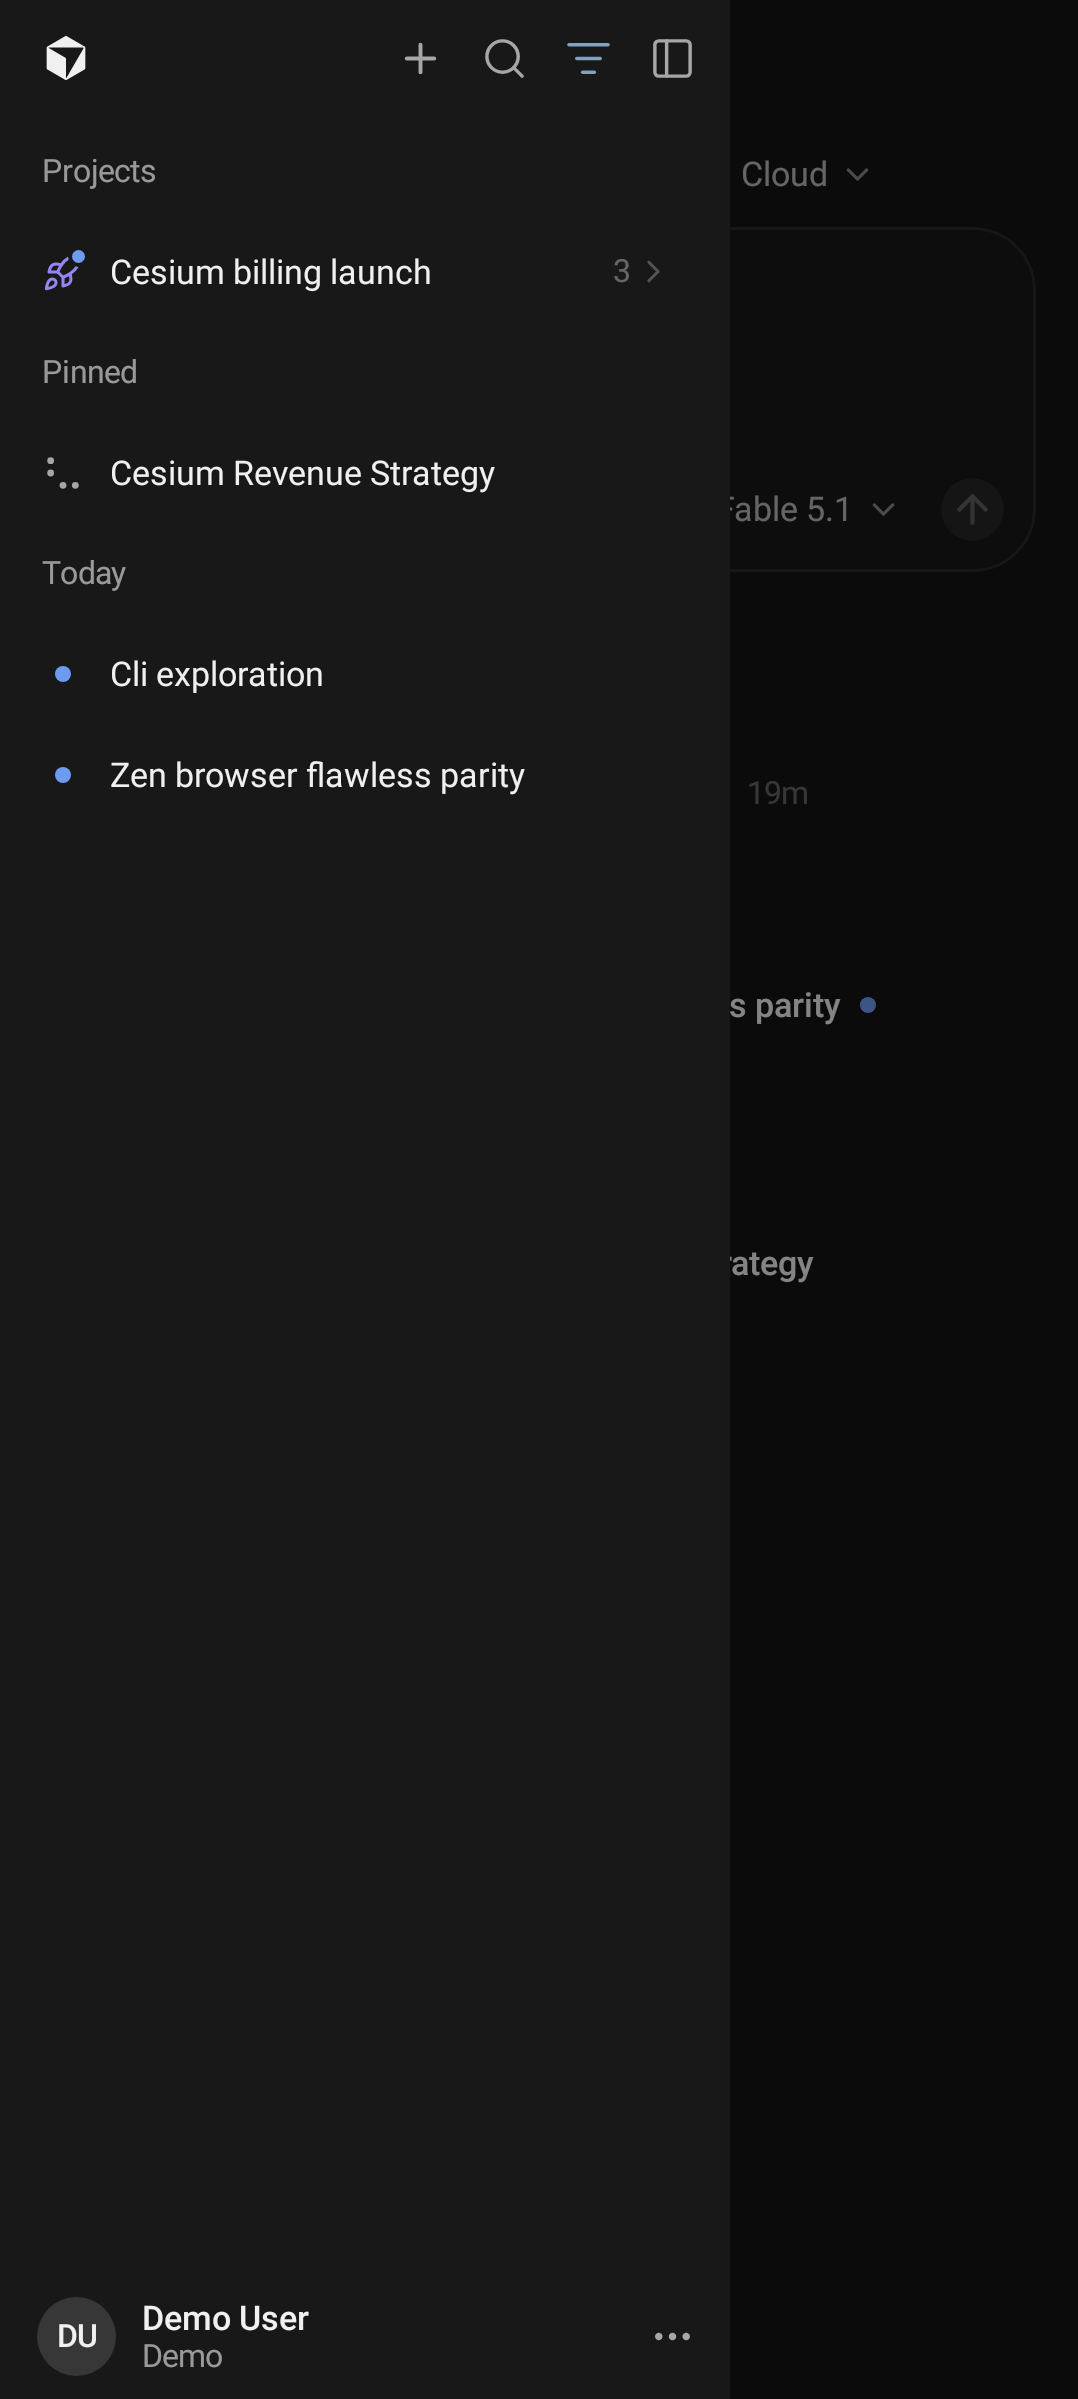
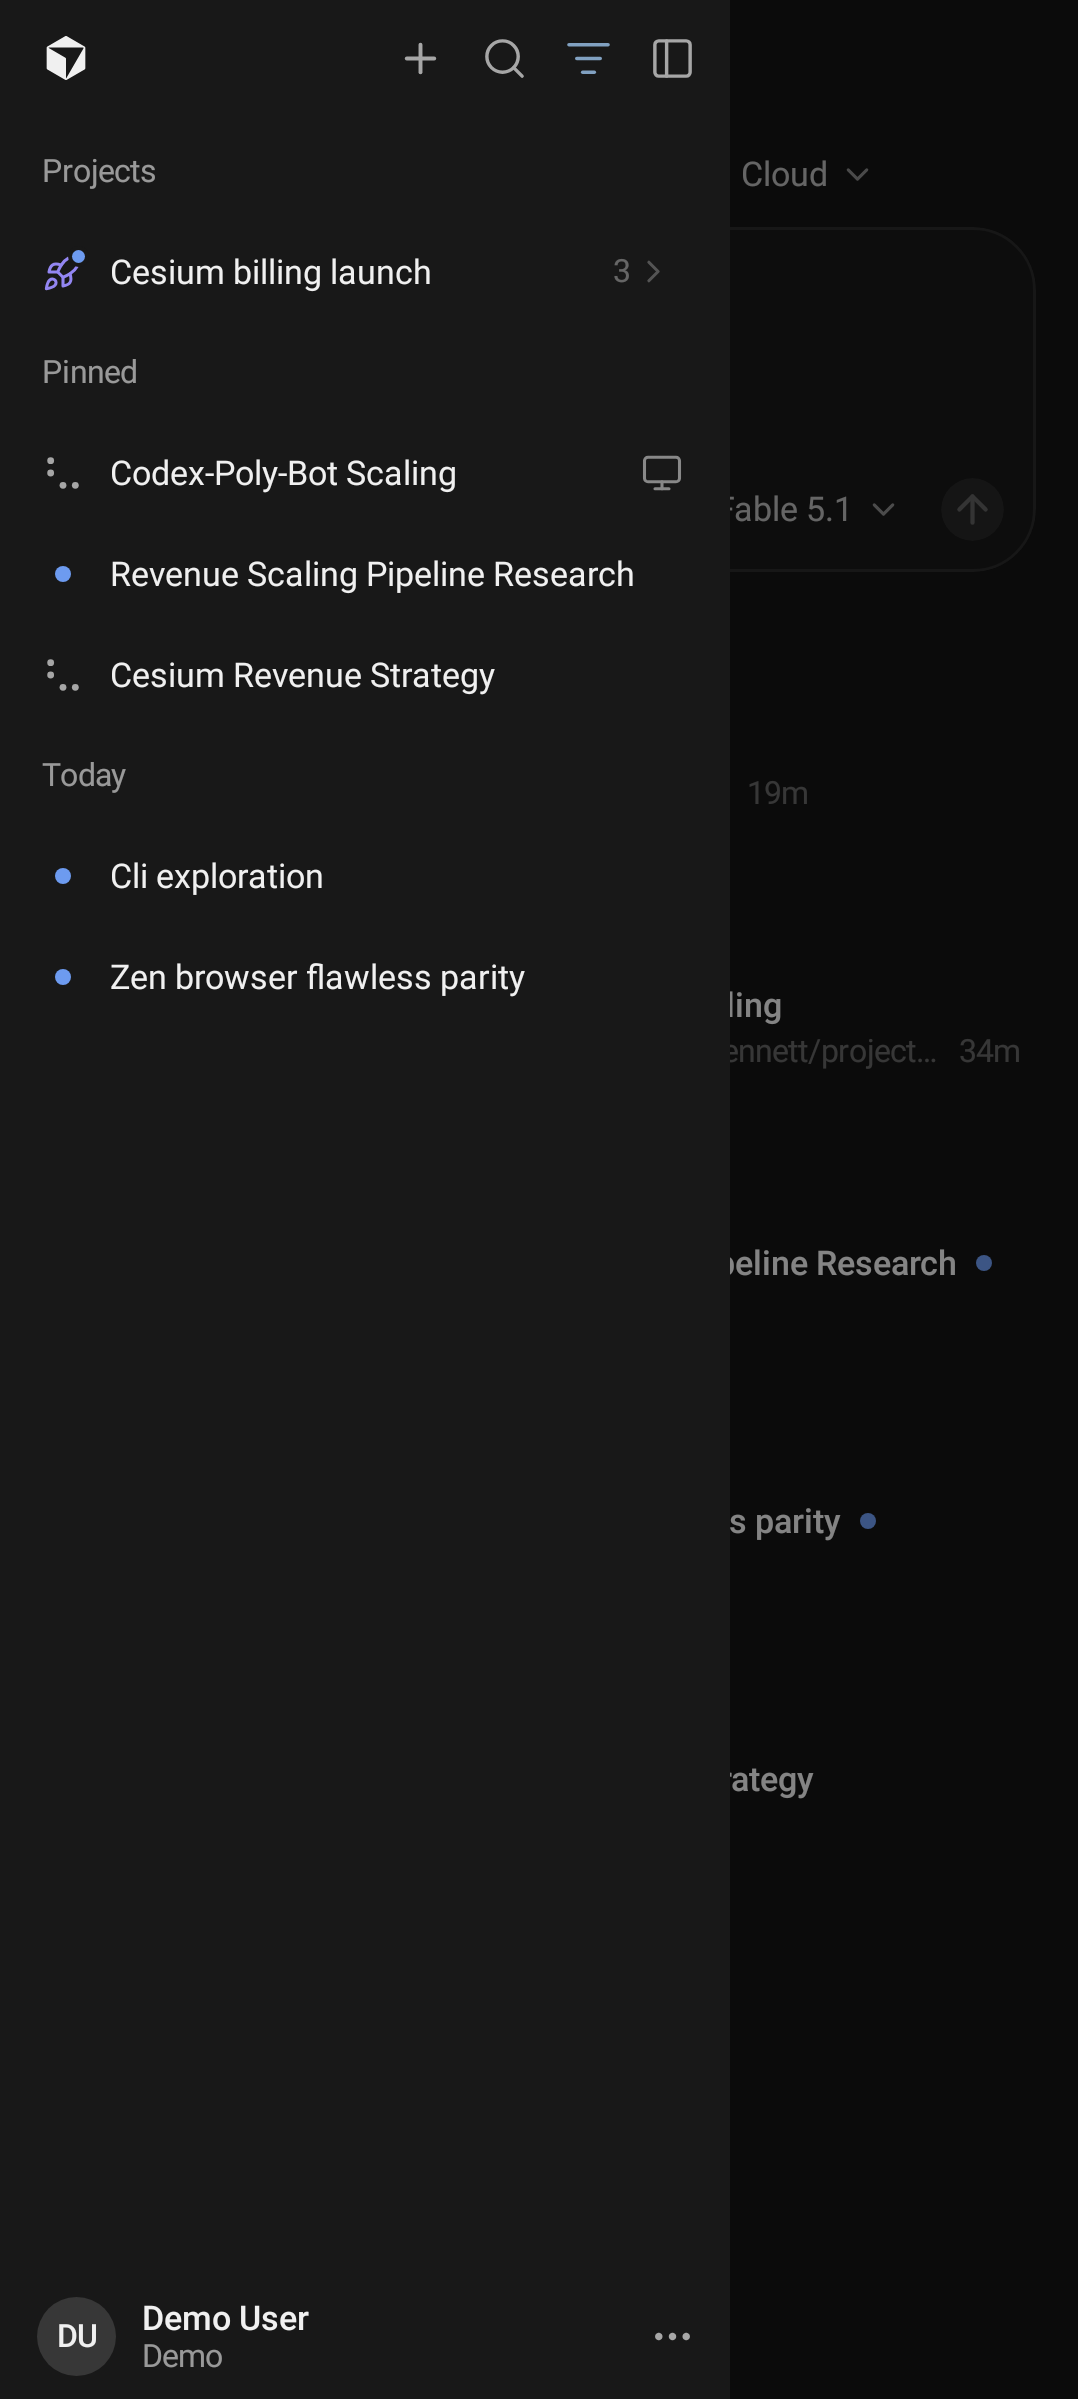
Screenshots: the pinned chats stay through the filters (27 re-recorded, 60 added)

diff --git a/app/src/test/java/com/cursorforandroid/screenshots/AppScreenshotTest.kt b/app/src/test/java/com/cursorforandroid/screenshots/AppScreenshotTest.kt
@@ -38,8 +38,11 @@ import com.cursorforandroid.data.demo.DemoData
 import com.cursorforandroid.data.local.SecureKeyStore
 import com.cursorforandroid.data.repo.SessionState
 import com.cursorforandroid.domain.ActivityGroup
+import com.cursorforandroid.domain.EnvironmentFilter
+import com.cursorforandroid.domain.ListPreferences
 import com.cursorforandroid.domain.RunFooter
 import com.cursorforandroid.domain.SourceFilter
+import com.cursorforandroid.domain.StatusFilter
 import com.cursorforandroid.ui.CursorRoot
 import com.cursorforandroid.ui.theme.CursorTheme
 import com.cursorforandroid.ui.theme.ThemeMode
@@ -250,18 +253,31 @@ class AppScreenshotTest {
         capture("26_environment_filter")
         Espresso.pressBack()
         waitForText("Grouping")
-        // The Source filter at work: only the chats started from Slack, the CLI and Grok Bot are left in the sidebar.
+        // The Source filter at work: only the chats started from Slack, the CLI and Grok Bot are left among the
+        // sidebar's own chats — the pinned ones stay whatever the filter says, the Editor-started machine chat among them.
         runBlocking { graph.prefs.updateListPreferences { it.copy(sources = setOf(SourceFilter.Slack, SourceFilter.Cli, SourceFilter.GrokBot)) } }
         waitForText("CLI +2")
         Espresso.pressBack() // dismiss the sheet
         compose.waitUntil(20_000) {
-            compose.onAllNodesWithText("Codex-Poly-Bot Scaling").fetchSemanticsNodes().isEmpty() &&
-                compose.onAllNodesWithText("Zen browser flawless parity").fetchSemanticsNodes().isNotEmpty()
+            compose.onAllNodesWithText("House environment overhaul").fetchSemanticsNodes().isEmpty() &&
+                compose.onAllNodesWithText("Zen browser flawless parity").fetchSemanticsNodes().isNotEmpty() &&
+                compose.onAllNodesWithText("Codex-Poly-Bot Scaling").fetchSemanticsNodes().isNotEmpty()
         }
         compose.waitForIdle()
         capture("27_sidebar_source_filtered")
-        runBlocking { graph.prefs.updateListPreferences { it.copy(sources = SourceFilter.entries.toSet()) } }
-        waitForText("Codex-Poly-Bot Scaling")
+        // The Status filter without Running and the Environment filter without the user's machines: the running chat
+        // of the account's own leaves the list; the pinned ones running — the one on the user's machine among them —
+        // do not. A pin is shown regardless of paging, source, environment or state.
+        runBlocking { graph.prefs.updateListPreferences { it.copy(sources = SourceFilter.entries.toSet(), statuses = ListPreferences().statuses - StatusFilter.Running, environments = setOf(EnvironmentFilter.Cloud, EnvironmentFilter.Pool)) } }
+        compose.waitUntil(20_000) {
+            compose.onAllNodesWithText("Hyper-realistic human limbs").fetchSemanticsNodes().isEmpty() &&
+                compose.onAllNodesWithText("House environment overhaul").fetchSemanticsNodes().isNotEmpty() &&
+                compose.onAllNodesWithText("Codex-Poly-Bot Scaling").fetchSemanticsNodes().isNotEmpty()
+        }
+        compose.waitForIdle()
+        capture("60_sidebar_pinned_and_running")
+        runBlocking { graph.prefs.updateListPreferences { it.copy(statuses = ListPreferences().statuses, environments = EnvironmentFilter.entries.toSet()) } }
+        waitForText("Hyper-realistic human limbs")
         Espresso.pressBack() // close the drawer
         compose.waitForIdle()
 
